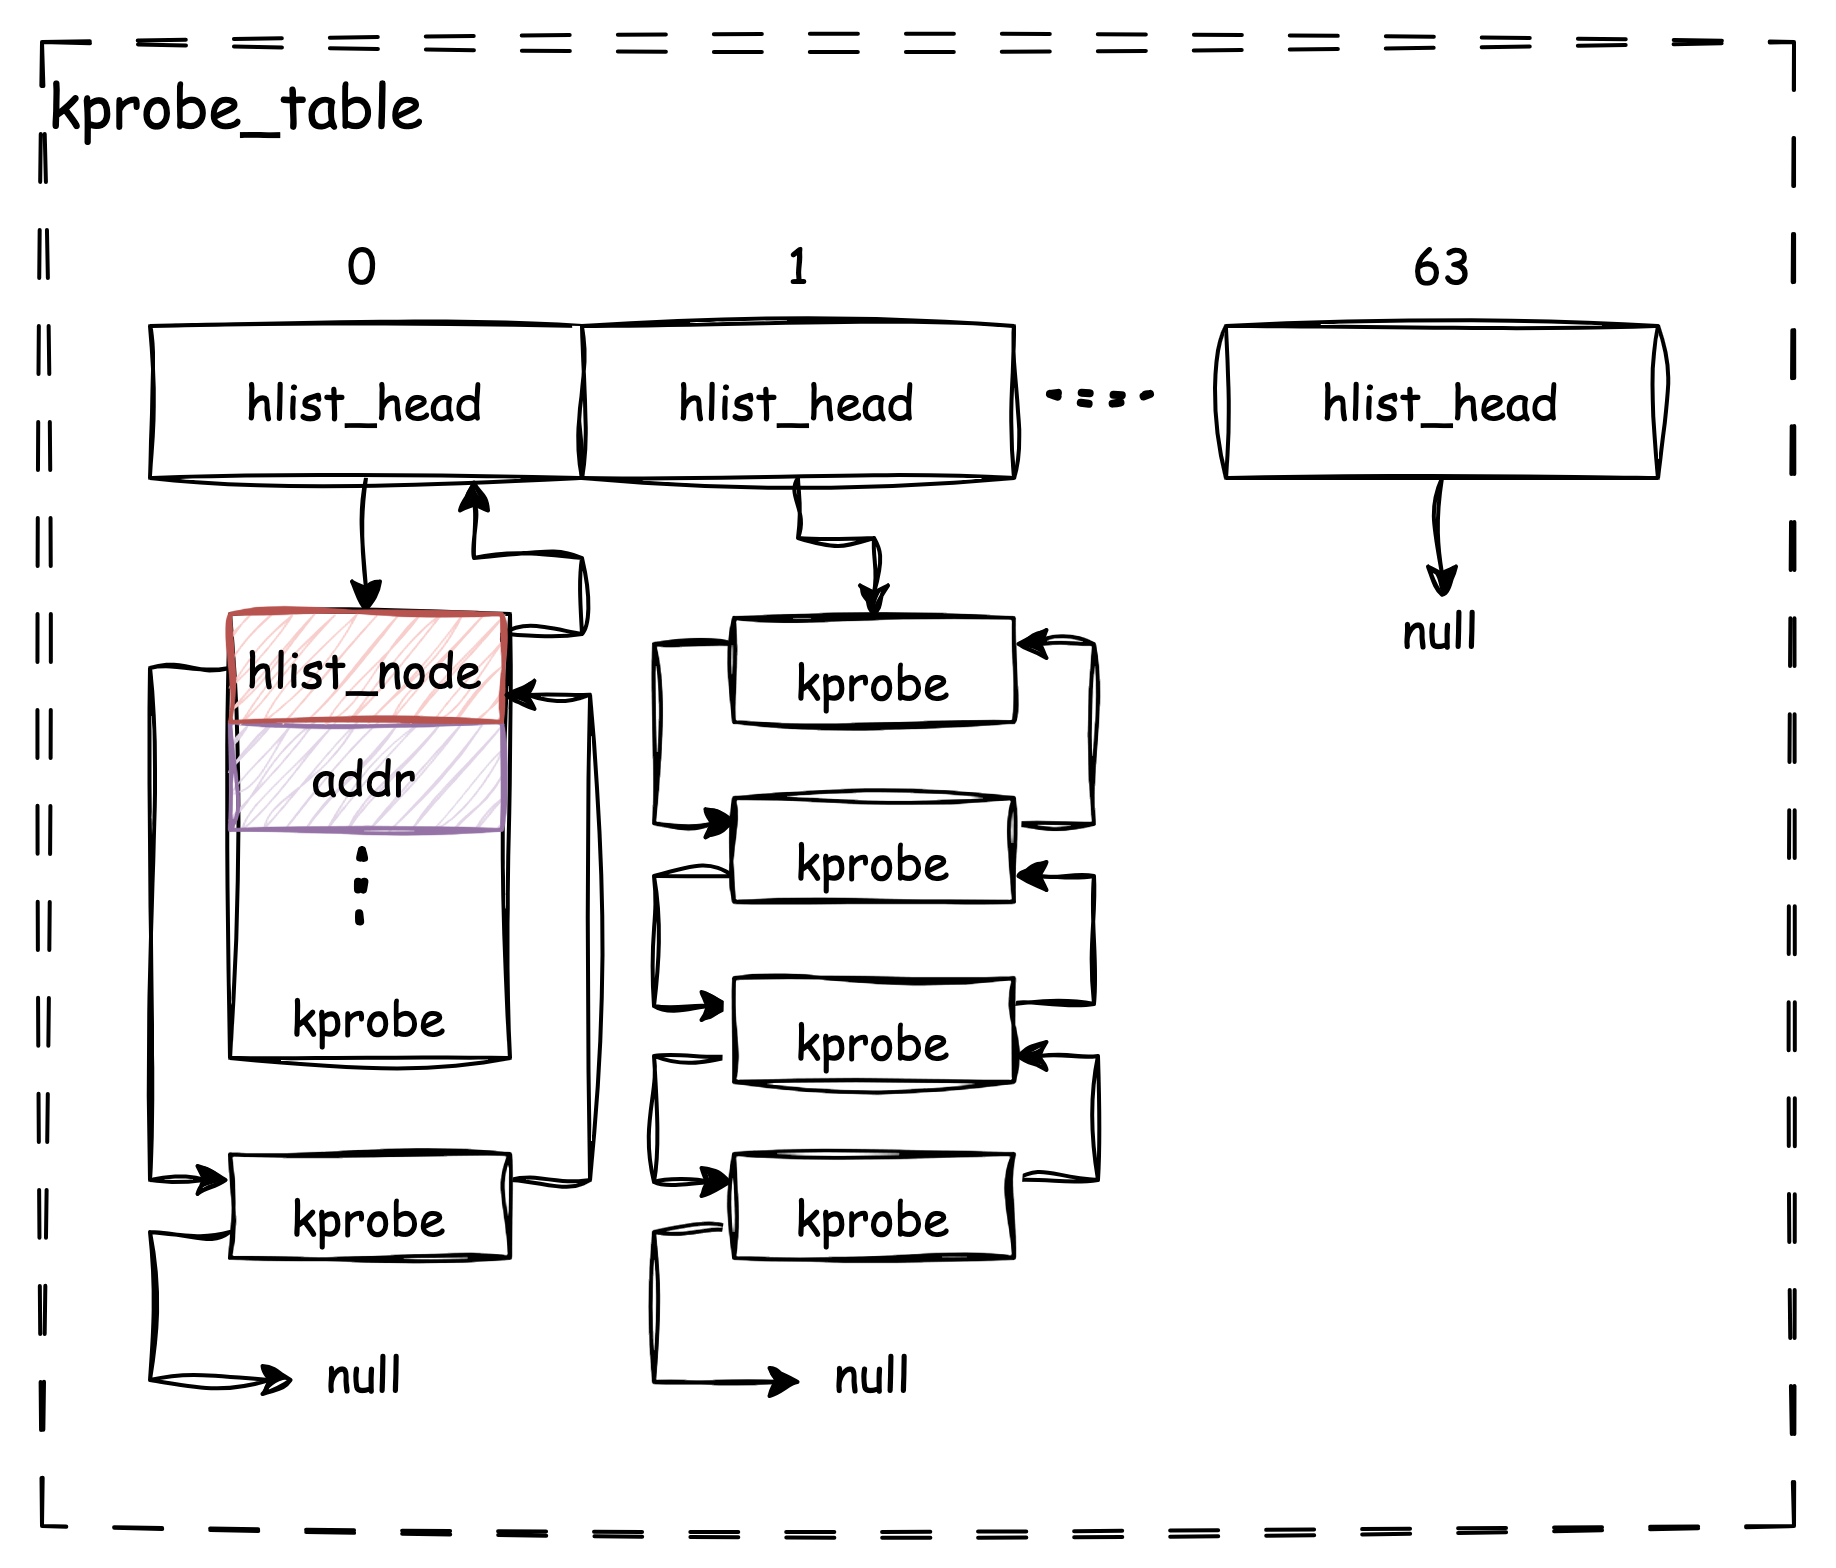
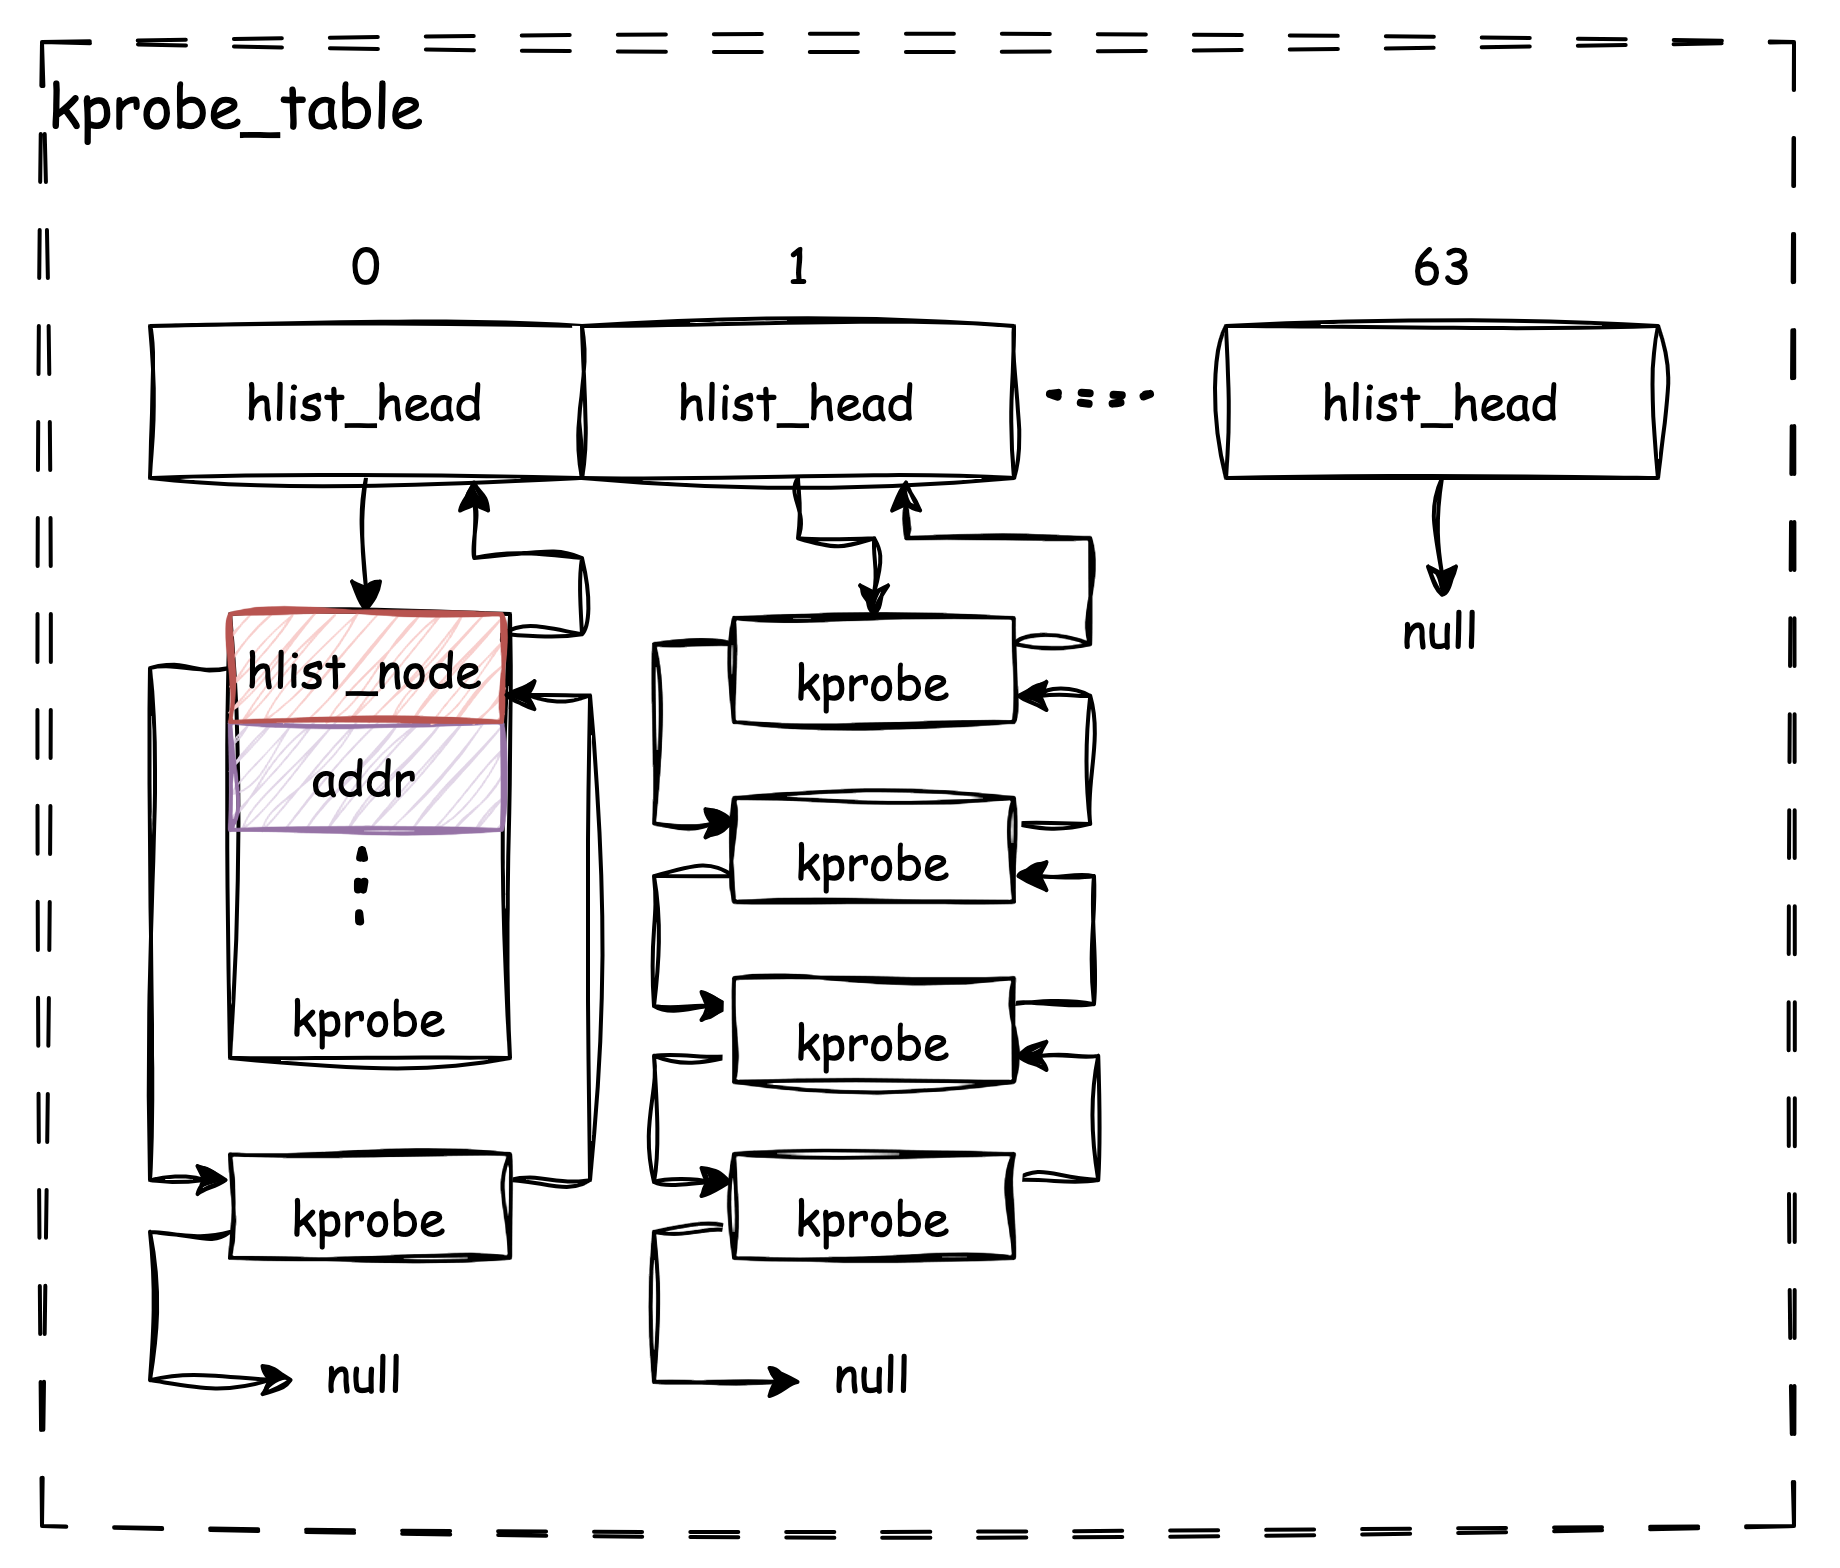
docs: update kprobes

diff --git a/source/_posts/linux-tracing-kprobe.md b/source/_posts/linux-tracing-kprobe.md
@@ -178,6 +178,8 @@ static int __register_kprobe(struct kprobe *p)
 上一节我们已经部分了解了 `struct kprobe` 中包含了 `hlist` 和 `addr` 两个关键字段，接下来我们一起通过讨论完整的`kprobe` 结构，来进一步认识 kprobes 框架的工作方式。
 
 ```c
+// include/linux/kprobes.h
+
 struct kprobe {
 	struct hlist_node hlist;
 
@@ -218,11 +220,77 @@ struct kprobe {
 
 通过每个 field 的注释我们已经能够大致的了解到它们的用途。
 
+#### 3.2.1 切入点相关的 Fields
+
 首先在前面的内容中已经提到过，在 `kprobe` 中可以指定切入点的 `addr`，也可以指定 `symbol_name + offset` 作为切入点，但 `addr` 和 `symbol_name` 是互斥关系，不能同时存在，否则注册时会报错。实际上在 kprobe 最终运作时，都是以 `addr` 作为实际的切入点位置，而假如指定了 `symbol_name` 则会经过一个转换的过程将之转换为 `addr`。
 
 对符号到地址的转换过程依赖子系统提供的能力：根据配置不同，默认情况下内核中已导出的符号和其地址会由 `kallsyms` 记录并提供运行时查询。因此如果 `kprobe` 中通过 `symbol_name + offset` 的形式描述切入点位置，kprobes 框架会通过 `kallsyms` 接口来对其进行验证并转换为实际的 `addr`。简化流程可见：
 
 {% asset_img 2.png %}
+
+其次，`pre_handler` 和 `post_handler` 会在切入点被命中的前后被执行，简单看看它们的函数签名：
+
+```c
+// include/linux/kprobes.h
+
+typedef int (*kprobe_pre_handler_t) (struct kprobe *, struct pt_regs *);
+typedef void (*kprobe_post_handler_t) (struct kprobe *, struct pt_regs *, unsigned long flags);
+```
+
+第一个相同的参数 `struct kprobe *` 不多做赘述，而第二个相同的参数 `struct pt_regs *` 中保存了当前执行 CPU 的寄存器值。此外，根据 [kprobe 文档](https://docs.kernel.org/trace/kprobes.html#register-kprobe)，`post_handler` 的最后一个参数 `flags` 目前总是为零值。
+
+需要注意的是`pre_handler` 还需要一个`int`返回值。由于 kprobe 运行在内核态，handler 程序实际上可以修改任何寄存器的值从而改变程序执行路径（例如修改 program counter），但这非常危险，在 kprobe 文档的[相关章节](https://docs.kernel.org/trace/kprobes.html#changing-execution-path)中建议：“对于要修改程序执行流程的内核老司机，在修改寄存器值之后记得让 `pre_handler` 返回非零值，进而 kprobe 框架会直接跳转到新的地址，而不再执行原切入点的指令，也不再执行 `post_handler`”。
+
+对于 `kprobe_opcode_t opcode;` 则涉及到了 kprobe 的核心原理，即为了正确命中切入点，kprobe 框架会把切入点的原始指令暂存，并替换为 Breakpoint 指令，例如 x86 架构下的 INT3，这里的 `opcode` 就保存了切入点指令。更多细节我们在下一小节讨论。
+
+相对应的，`struct arch_specific_insn ainsn;` 保存了与体系结构相关的额外信息，`opcode` 是与体系结构无关的字段，它直接保存了指令的内容。而 `ainsn` 进一步保存了与体系结构相关的一些信息，不同的体系结构下其实现可能存在差异，例如 [x86 的实现](https://elixir.bootlin.com/linux/v6.15.4/source/arch/x86/include/asm/kprobes.h#L54)以及 [riscv 的实现](https://elixir.bootlin.com/linux/v6.15.4/source/arch/riscv/include/asm/probes.h#L19)。
+
+此外，`unsigned long nmissed;` 存储了当前 kprobe 被触发，但未能成功执行 handler 的次数，通常情况下，这是由于该 kprobe 发生了重入（reenter），即该 kprobe 触发了另一个 kprobe。在这种情况下，handler 不会再被运行，而是记录一次 `nmissed`。
+
+最后，`u32 flags;` 作为一个状态指示器指示了当前的各种状态，其中包括启用、禁用、已注册等等。
+
+#### 3.2.2 相同切入点上的多个 kprobes
+
+回到前面提到过的一个问题：作为一个通用的框架，假如有多个调用方期望在同一个切入点上挂载多个 kprobe，该怎么办呢？
+
+事实上 kprobes 框架依然采用了线性表的方式来确保这种情况能够被满足。`struct list_head list;` 充当了该职责，`list_head` 是内核中提供的双向链表结构，它非常简单的只包含了前后指针两个字段。与 `hlist_head` 类似，实际使用时嵌入到具体的结构中，通过计算偏移量就能取回实际的结构。
+
+因此，`kprobe` 可以通过 `list` 字段将其他与其具有相同切入点的`kropbe` 通过该双向链表串联在了一起，从而当切入点被命中时，每一个 `kprobe` 都会被依次触发而不会被漏掉。
+
+有趣的是，为了实现依次触发的要求，在每一个`kprobe` 链表的头部，会放置一个特殊的 `kprobe` 结构，名为 “aggregator”。它与普通`kprobe` 的唯一区别在于其 `pre_handler` 和 `post_handler` 会被替换为如下的 handler：
+
+```c
+// kernel/kprobes.c
+
+static int aggr_pre_handler(struct kprobe *p, struct pt_regs *regs)
+{
+  ...
+	list_for_each_entry_rcu(kp, &p->list, list) {
+    ... ...
+    if (kp->pre_handler(kp, regs))
+      return 1;
+    ... ...
+	}
+  ...
+}
+
+static void aggr_post_handler(struct kprobe *p, struct pt_regs *regs, unsigned long flags)
+{
+  ...
+	list_for_each_entry_rcu(kp, &p->list, list) {
+		... ...
+    kp->post_handler(kp, regs, flags);
+    ... ...
+	}
+  ...
+}
+```
+
+很简单的，这些 aggrator handler 实际上遍历了所有链表内的 `kprobe` 并实际调用它们的 handler。
+
+同时，我们现在可以更新一下 kprobes 框架的结构图：
+
+{% asset_img 3.png %}
 
 
 
